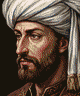
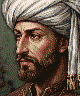
메흐메트 2세 얼굴의 배경을 회녹색 그라데이션(위→아래, 허용치 12)으로 바꾸고, 초상화 필터의 허용치 기본값을 12 로 둔다(건의)
Claude-Session: https://claude.ai/code/session_01Gb3QPs9SSft8hoECPEFx3A

diff --git a/CdsHelper.Game/UI/Views/PortraitFilterDialog.cs b/CdsHelper.Game/UI/Views/PortraitFilterDialog.cs
@@ -39,8 +39,8 @@ public sealed class PortraitFilterDialog : GameWindow
 
     // 배경 그라데이션 — 원본 얼굴들은 뒤를 두 색 그라데이션으로 칠해 두었다(대개 짙은 밤색, 회녹색 · 회색 · 크림도 있다).
     private readonly CheckBox _bgOn = new() { Content = "배경을 그라데이션으로 바꾸기", Margin = new Thickness(0, 2, 0, 2) };
-    // 허용치 기본 15 — 45 쯤이면 배경에 닿은 짙은 수염까지 번졌다(메흐메트 2세).
-    private readonly Slider _bgTol = Bar(3, 100, 15);
+    // 허용치 기본 12 — 45 쯤이면 배경에 닿은 짙은 수염까지 번졌고, 12 가 가장 자연스러웠다(메흐메트 2세, 건의).
+    private readonly Slider _bgTol = Bar(3, 100, 12);
     private readonly ComboBox _bgPreset = Pick("밤색(원본에 가장 흔함)", "회녹색", "회색", "크림", "직접 적기");
     private readonly ComboBox _bgDir = Pick("위 → 아래", "왼쪽 위 → 오른쪽 아래", "왼쪽 → 오른쪽", "가운데 → 가장자리");
     private readonly TextBox _bgFrom = new() { Text = "4A3528", Width = 70 };
